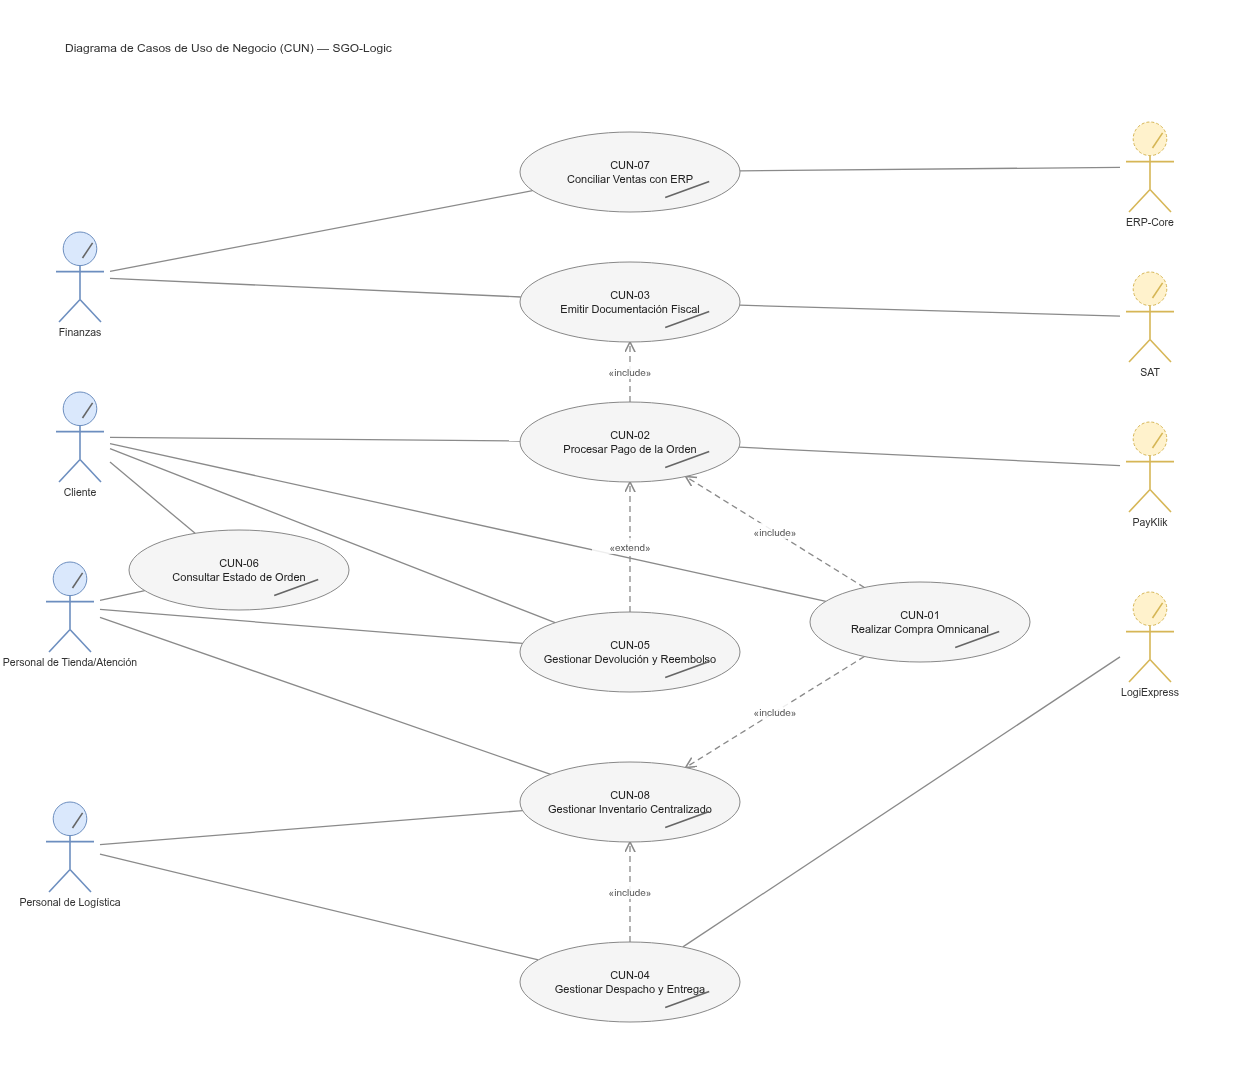
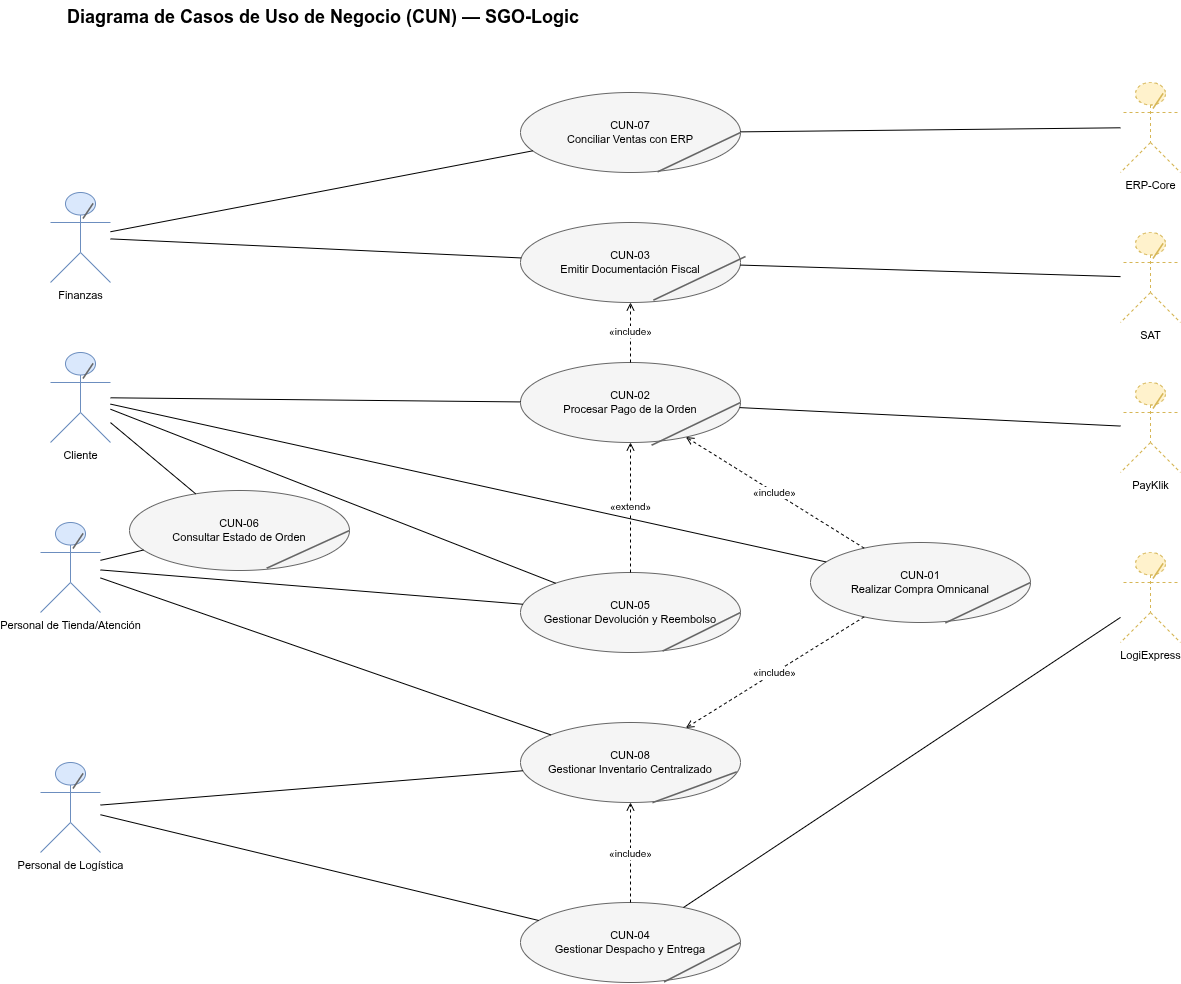
Agrega diagrama Core (sistema y actores de alto nivel)
Vista radial con SGO-Logic al centro y todos los actores de negocio y
sistemas externos alrededor, como mapa previo al CUN y al CDU. Se agrega
al DDA y a la presentación. Incluye también el ajuste manual de posición
de CDU-07 en el diagrama CDU y su preview actualizado.

diff --git a/Docs/Presentacion/slides.html b/Docs/Presentacion/slides.html
@@ -48,7 +48,7 @@
   <h1>SGO-Logic</h1>
   <div class="sub">Arquitectura para la Operación Omnicanal de MegaStore</div>
   <p style="margin-top:60px; color:#78909c;">Equipo de Arquitectura de Software — Sección A, Grupo 3</p>
-  <div class="num">1 / 24</div>
+  <div class="num">1 / 25</div>
 </div>
 
 <!-- 2 -->
@@ -66,7 +66,7 @@
     <tr><td>5 min</td><td>Prototipo y evolución</td></tr>
     <tr><td>5 min</td><td>Preguntas y defensa</td></tr>
   </table>
-  <div class="num">2 / 24</div>
+  <div class="num">2 / 25</div>
 </div>
 
 <!-- 3 -->
@@ -87,7 +87,7 @@
       <p>Cada tienda, el e-commerce, el inventario y la logística operan como <strong>silos</strong>. Una venta puede requerir llamadas telefónicas, hojas de cálculo y conciliaciones manuales posteriores.</p>
     </div>
   </div>
-  <div class="num">3 / 24</div>
+  <div class="num">3 / 25</div>
 </div>
 
 <!-- 4 -->
@@ -97,7 +97,7 @@
   <div class="quote">"Nuestro cliente compra desde el celular a las 10pm, desde la tienda física a las 3pm, o llama por teléfono a las 8am. La experiencia debe ser la misma. No podemos tener silos."</div>
   <p style="text-align:right; color:#78909c;">— Directora de Comercialización</p>
   <p>Una compra puede <strong>iniciar en un canal y terminar en otro</strong>, sin perder continuidad. SGO-Logic es la capa de orquestación que lo hace posible — sin reemplazar el ERP-Core ni los POS.</p>
-  <div class="num">4 / 24</div>
+  <div class="num">4 / 25</div>
 </div>
 
 <!-- 5 -->
@@ -112,7 +112,7 @@
     <div class="card"><h3>Equipo</h3><p>Domina Java/.NET y Docker básico — sin Kubernetes</p></div>
     <div class="card"><h3>Fecha fija</h3><p>Black Friday en noviembre; ruta viable desde el primer mes</p></div>
   </div>
-  <div class="num">5 / 24</div>
+  <div class="num">5 / 25</div>
 </div>
 
 <!-- 6 -->
@@ -127,7 +127,7 @@
     <tr><td>Junta Directiva</td><td>Presupuesto, decisión irrevocable de no tocar ERP-Core/POS</td></tr>
     <tr><td>Cliente final</td><td>Experiencia consistente, consulta de estado &lt; 5s</td></tr>
   </table>
-  <div class="num">6 / 24</div>
+  <div class="num">6 / 25</div>
 </div>
 
 <!-- 7 -->
@@ -143,7 +143,7 @@
     <tr><td>DC-07</td><td>Auditabilidad / trazabilidad</td><td>17/20</td></tr>
     <tr><td>DC-05</td><td>Confiabilidad de integración</td><td>17/20</td></tr>
   </table>
-  <div class="num">7 / 24</div>
+  <div class="num">7 / 25</div>
 </div>
 
 <!-- 8 -->
@@ -153,7 +153,7 @@
   <h2>Monolito Modular con Integración Asíncrona (ADR-0001)</h2>
   <p>Componentes internos comunicados mayormente vía un <strong>broker de mensajería</strong> (pagos, logística, notificaciones, sincronización ERP), con llamadas síncronas solo donde se necesita consistencia inmediata (inventario, consultas).</p>
   <p>Contenedores Docker independientes, base de datos relacional con esquemas separados — preparado para extraerse a servicios independientes sin rediseño.</p>
-  <div class="num">8 / 24</div>
+  <div class="num">8 / 25</div>
 </div>
 
 <!-- 9 -->
@@ -167,10 +167,19 @@
     <tr><td><strong>Monolito modular + broker (elegido)</strong></td><td>Balance entre lo que el equipo puede operar hoy y la necesidad de desacoplar componentes críticos</td></tr>
   </table>
   <p style="margin-top:16px;">Ninguna decisión partió de una preferencia tecnológica — todas responden a un driver priorizado.</p>
-  <div class="num">9 / 24</div>
+  <div class="num">9 / 25</div>
 </div>
 
 <!-- 10 -->
+<div class="slide">
+  <div class="kicker">Casos de uso</div>
+  <h1>Diagrama Core — sistema y actores de alto nivel</h1>
+  <img class="diagram" src="../DDA/diagramas/core.png" alt="Diagrama Core: sistema y actores de alto nivel">
+  <p style="font-size:13px; color:#78909c;">SGO-Logic al centro; alrededor, todos los actores de negocio y los sistemas externos de los que depende — el mapa previo a los diagramas de casos de uso.</p>
+  <div class="num">10 / 25</div>
+</div>
+
+<!-- 11 -->
 <div class="slide">
   <div class="kicker">Casos de uso</div>
   <h1>Qué hace el sistema: de negocio a expandido</h1>
@@ -183,52 +192,52 @@
     <tr><td>CDU-05</td><td>Gestionar Devolución y Reembolso</td><td>Cliente / Atención</td></tr>
     <tr><td>CDU-08</td><td>Gestionar Inventario Centralizado</td><td>Personal de Logística</td></tr>
   </table>
-  <div class="num">10 / 24</div>
+  <div class="num">11 / 25</div>
 </div>
 
-<!-- 11 -->
+<!-- 12 -->
 <div class="slide">
   <div class="kicker">Casos de uso</div>
   <h1>Diagrama de Casos de Uso Expandidos (CDU)</h1>
   <img class="diagram" src="../DDA/diagramas/cdu.png" alt="Diagrama de Casos de Uso Expandidos CDU">
   <p style="font-size:13px; color:#78909c;">Límite del sistema SGO-Logic, con actores secundarios (PayKlik, LogiExpress, SAT, ERP-Core, POS) y relaciones «include»/«extend».</p>
-  <div class="num">11 / 24</div>
-</div>
-
-<!-- 12 -->
-<div class="slide">
-  <div class="kicker">Vistas de la arquitectura</div>
-  <h1>Diagrama de Contexto</h1>
-  <img class="diagram" src="../Diagramas/contexto.png" alt="Diagrama de Contexto">
-  <div class="num">12 / 24</div>
+  <div class="num">12 / 25</div>
 </div>
 
 <!-- 13 -->
 <div class="slide">
   <div class="kicker">Vistas de la arquitectura</div>
-  <h1>Diagrama de Componentes</h1>
-  <img class="diagram" src="../Diagramas/componentes.png" alt="Diagrama de Componentes">
-  <div class="num">13 / 24</div>
+  <h1>Diagrama de Contexto</h1>
+  <img class="diagram" src="../Diagramas/contexto.png" alt="Diagrama de Contexto">
+  <div class="num">13 / 25</div>
 </div>
 
 <!-- 14 -->
 <div class="slide">
   <div class="kicker">Vistas de la arquitectura</div>
-  <h1>Diagrama de Despliegue</h1>
-  <img class="diagram" src="../Diagramas/despliegue.png" alt="Diagrama de Despliegue">
-  <p style="font-size:13px; color:#78909c;">Cada nodo anotado con el driver de calidad (DC-NN) que justifica su diseño.</p>
-  <div class="num">14 / 24</div>
+  <h1>Diagrama de Componentes</h1>
+  <img class="diagram" src="../Diagramas/componentes.png" alt="Diagrama de Componentes">
+  <div class="num">14 / 25</div>
 </div>
 
 <!-- 15 -->
 <div class="slide">
   <div class="kicker">Vistas de la arquitectura</div>
-  <h1>Diagrama de Bloques</h1>
-  <img class="diagram" src="../Diagramas/bloques.png" alt="Diagrama de Bloques">
-  <div class="num">15 / 24</div>
+  <h1>Diagrama de Despliegue</h1>
+  <img class="diagram" src="../Diagramas/despliegue.png" alt="Diagrama de Despliegue">
+  <p style="font-size:13px; color:#78909c;">Cada nodo anotado con el driver de calidad (DC-NN) que justifica su diseño.</p>
+  <div class="num">15 / 25</div>
 </div>
 
 <!-- 16 -->
+<div class="slide">
+  <div class="kicker">Vistas de la arquitectura</div>
+  <h1>Diagrama de Bloques</h1>
+  <img class="diagram" src="../Diagramas/bloques.png" alt="Diagrama de Bloques">
+  <div class="num">16 / 25</div>
+</div>
+
+<!-- 17 -->
 <div class="slide">
   <div class="kicker">Cómo se atienden los drivers críticos</div>
   <h1>Driver #1 — Resiliencia de pagos</h1>
@@ -239,10 +248,10 @@
     <li><strong>Circuit Breaker</strong> — deja de insistir con PayKlik si está caído</li>
     <li>Cola de reintentos asíncronos vía el Message Broker</li>
   </ul>
-  <div class="num">16 / 24</div>
+  <div class="num">17 / 25</div>
 </div>
 
-<!-- 17 -->
+<!-- 18 -->
 <div class="slide">
   <div class="kicker">Cómo se atienden los drivers críticos</div>
   <h1>Driver #2 — Auditoría y trazabilidad</h1>
@@ -252,20 +261,20 @@
     <li>Recuperación de evidencia en <strong>&lt; 1 segundo</strong></li>
     <li>Nunca se almacena el número completo de tarjeta (PAN) ni el CVV</li>
   </ul>
-  <div class="num">17 / 24</div>
+  <div class="num">18 / 25</div>
 </div>
 
-<!-- 18 -->
+<!-- 19 -->
 <div class="slide">
   <div class="kicker">Cómo se atienden los drivers críticos</div>
   <h1>Driver #3 — No tocar ERP-Core ni POS</h1>
   <p>Decisión irrevocable de la Junta Directiva. El ERP-Core solo acepta CSV/XML en ventanas de 30 minutos.</p>
   <h2>Solución (ADR-0003)</h2>
   <p>Adaptador de sincronización batch, <strong>idempotente</strong>, que agrupa eventos confirmados y expone detalle transaccional por lote — reduce la investigación manual de diferencias que existe hoy.</p>
-  <div class="num">18 / 24</div>
+  <div class="num">19 / 25</div>
 </div>
 
-<!-- 19 -->
+<!-- 20 -->
 <div class="slide">
   <div class="kicker">Prototipo y evolución</div>
   <h1>Flujo principal</h1>
@@ -278,10 +287,10 @@
     </div>
   </div>
   <p style="font-size:13px; color:#78909c; margin-top:8px;">Mockups no funcionales — carrito unificado entre canales y vista consolidada de estado de orden.</p>
-  <div class="num">19 / 24</div>
+  <div class="num">20 / 25</div>
 </div>
 
-<!-- 20 -->
+<!-- 21 -->
 <div class="slide">
   <div class="kicker">Prototipo y evolución</div>
   <h1>Presupuesto</h1>
@@ -290,10 +299,10 @@
     <tr><td>Inversión inicial</td><td>USD 150,000</td><td>Componentes open-source (broker), sin licenciamiento comercial</td></tr>
     <tr><td>Operación mensual</td><td>≤ USD 1,200</td><td>On-premises, sin Kubernetes ni servicios cloud administrados en Fase 1</td></tr>
   </table>
-  <div class="num">20 / 24</div>
+  <div class="num">21 / 25</div>
 </div>
 
-<!-- 21 -->
+<!-- 22 -->
 <div class="slide">
   <div class="kicker">Prototipo y evolución</div>
   <h1>On-premises hoy, nube después (ADR-0005)</h1>
@@ -302,10 +311,10 @@
     <li>Fase 1: Docker Compose/Swarm on-premises, capacidad reservada para el pico de Black Friday</li>
     <li>Evolución futura: orquestador cloud, autoescalado real, mejor recuperación ante desastres</li>
   </ul>
-  <div class="num">21 / 24</div>
+  <div class="num">22 / 25</div>
 </div>
 
-<!-- 22 -->
+<!-- 23 -->
 <div class="slide">
   <div class="kicker">Prototipo y evolución</div>
   <h1>Riesgos aceptados — con los ojos abiertos</h1>
@@ -315,10 +324,10 @@
     <tr><td>ADR-0003 — ERP</td><td>Reportes gerenciales nunca en tiempo real (ventana de hasta 30 min)</td></tr>
     <tr><td>ADR-0005 — Despliegue</td><td>Sin autoescalado real en Fase 1; capacidad reservada de antemano</td></tr>
   </table>
-  <div class="num">22 / 24</div>
+  <div class="num">23 / 25</div>
 </div>
 
-<!-- 23 -->
+<!-- 24 -->
 <div class="slide">
   <div class="kicker">Cierre</div>
   <h1>Lo que estamos entregando</h1>
@@ -329,14 +338,14 @@
     <li>Trazabilidad completa: stakeholder → driver → decisión → vista → validación</li>
   </ul>
   <p style="margin-top:20px;"><strong>Cada decisión responde a un driver real del caso — no a una preferencia tecnológica.</strong></p>
-  <div class="num">23 / 24</div>
+  <div class="num">24 / 25</div>
 </div>
 
-<!-- 24 -->
+<!-- 25 -->
 <div class="slide title-slide">
   <h1>Gracias</h1>
   <div class="sub">Preguntas y defensa</div>
-  <div class="num">24 / 24</div>
+  <div class="num">25 / 25</div>
 </div>
 
 </body>

diff --git a/Docs/DDA/01-caso-negocio.md b/Docs/DDA/01-caso-negocio.md
@@ -6,6 +6,14 @@
 
 MegaStore quiere que un cliente pueda **iniciar, continuar y completar una compra desde cualquier canal** (tienda física, web, app móvil, centro de atención) con una experiencia consistente, sin silos de información entre canales. La iniciativa que habilita este objetivo es **SGO-Logic**. El sistema de interés no reemplaza los sistemas legacy (ERP-Core, POS) sino que orquesta la operación omnicanal por encima de ellos.
 
+## Diagrama Core — sistema y actores de alto nivel
+
+Vista de más alto nivel del caso de negocio: SGO-Logic al centro y todos los actores que interactúan con él alrededor — tanto los actores de negocio (Cliente, Personal de Tienda/Atención, Personal de Logística, Finanzas) como los sistemas externos de los que depende (PayKlik, LogiExpress, SAT, ERP-Core, POS). Sirve como mapa previo a los diagramas de casos de uso (CUN y CDU) que detallan cómo interactúa cada actor.
+
+![Diagrama Core — Sistema y Actores de Alto Nivel](diagramas/core.png)
+
+Fuente editable: [`diagramas/core.drawio`](diagramas/core.drawio).
+
 ## Diagrama de Casos de Uso de Negocio (CUN) — alto nivel
 
 Actores de negocio identificados: **Cliente**, **Personal de Tienda/Atención**, **Personal de Logística**, **Finanzas**. Los sistemas externos (PayKlik, LogiExpress, SAT, ERP-Core) aparecen como actores secundarios porque el negocio depende de ellos pero no los controla.
